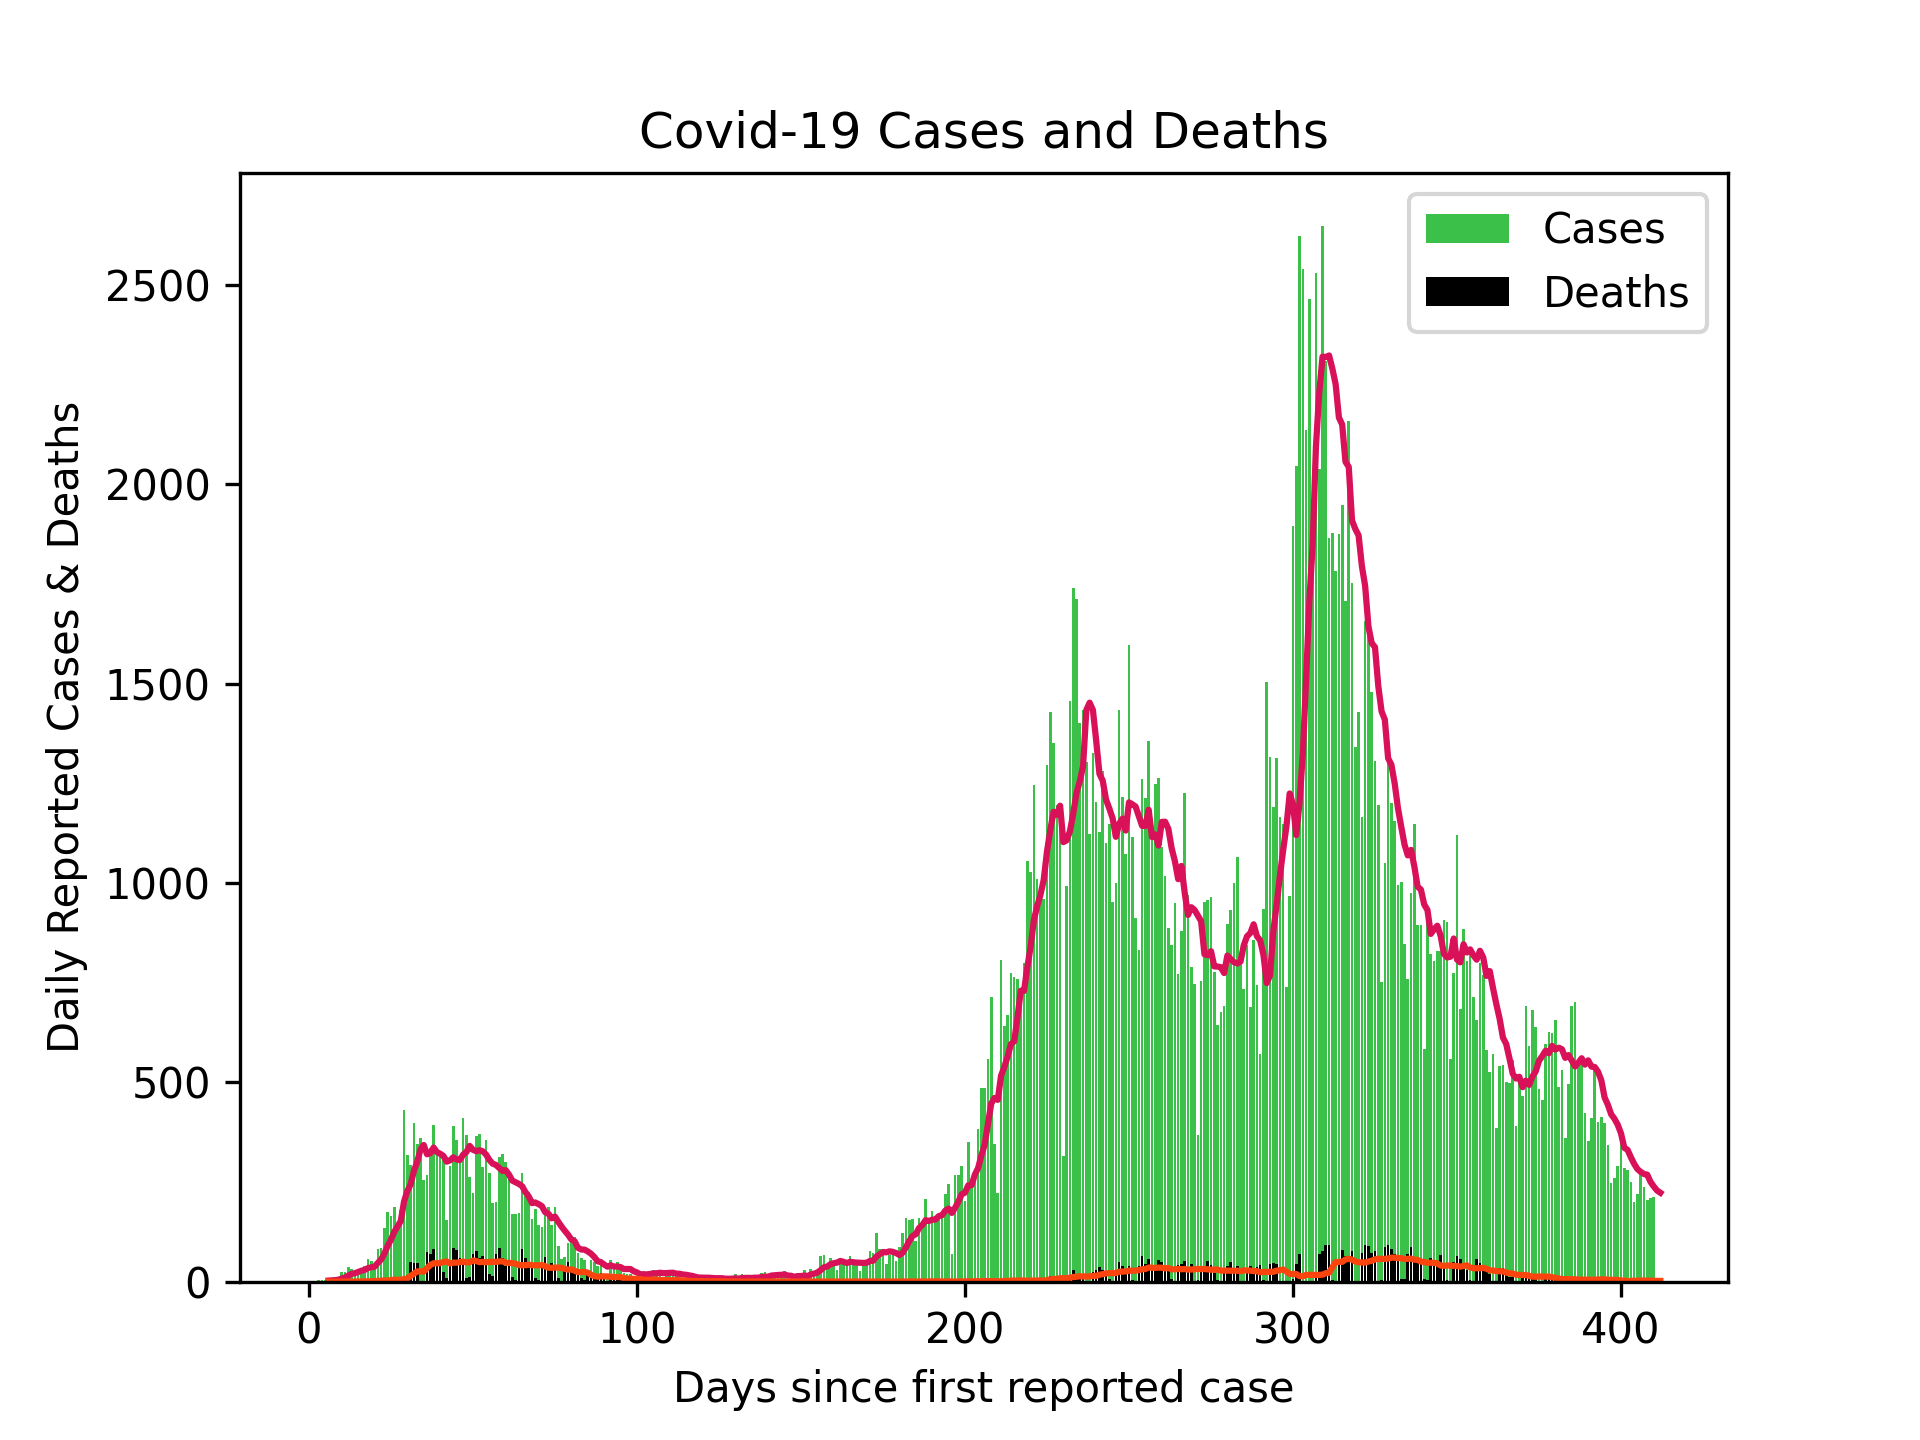
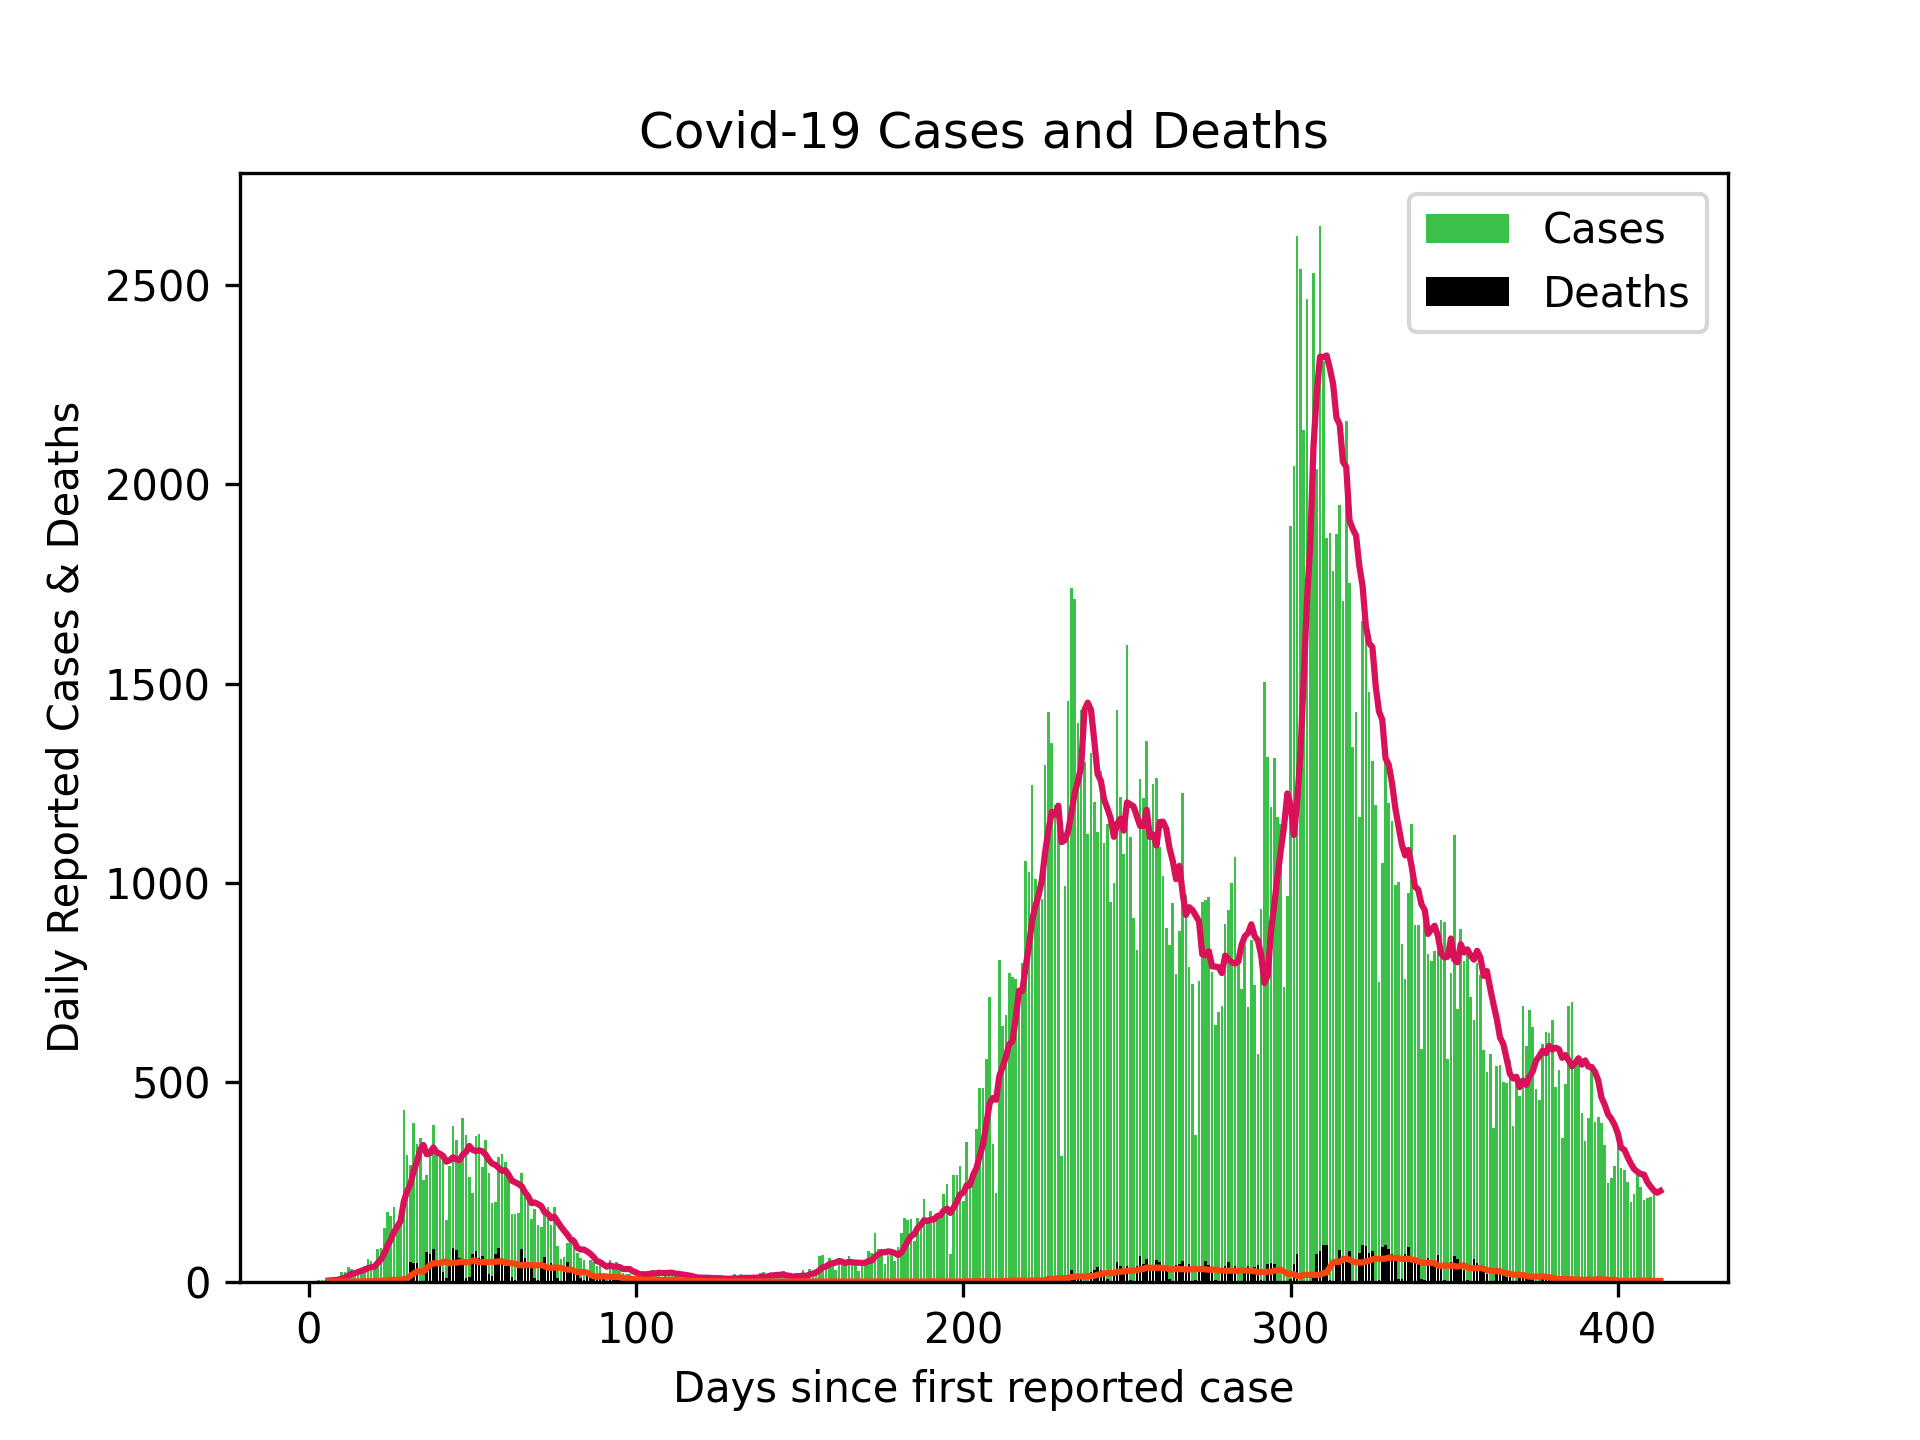
Updated Scottish cases 19/04/21

diff --git a/README.md b/README.md
@@ -1,4 +1,4 @@
-# Scottish Cases 18/04/21
+# Scottish Cases 19/04/21
 
 ![alt](scottish_cases.png)
 
